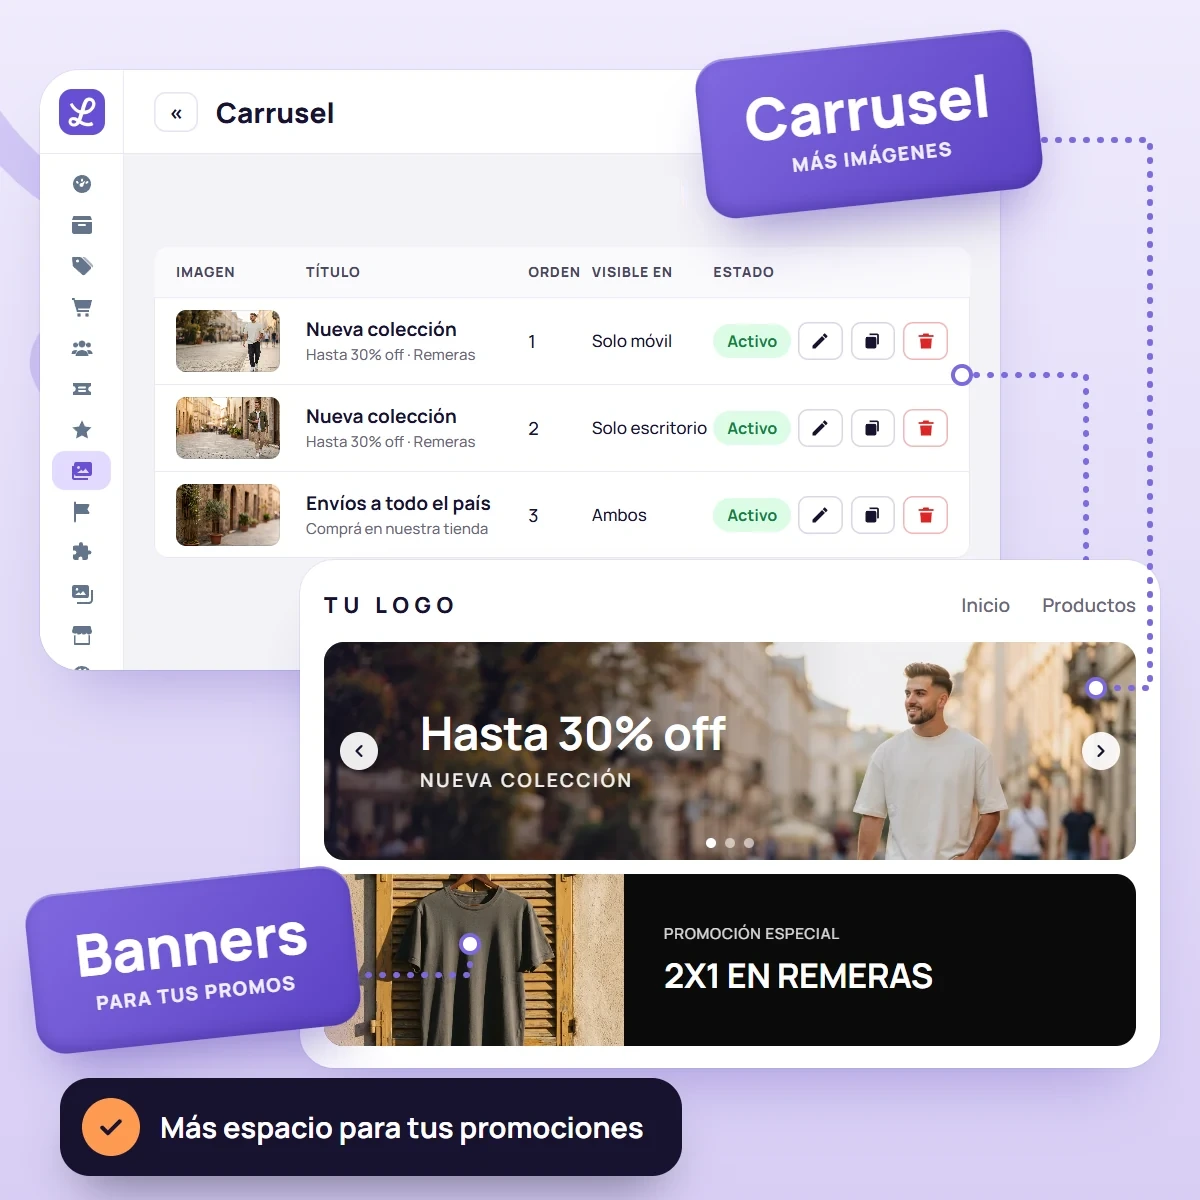
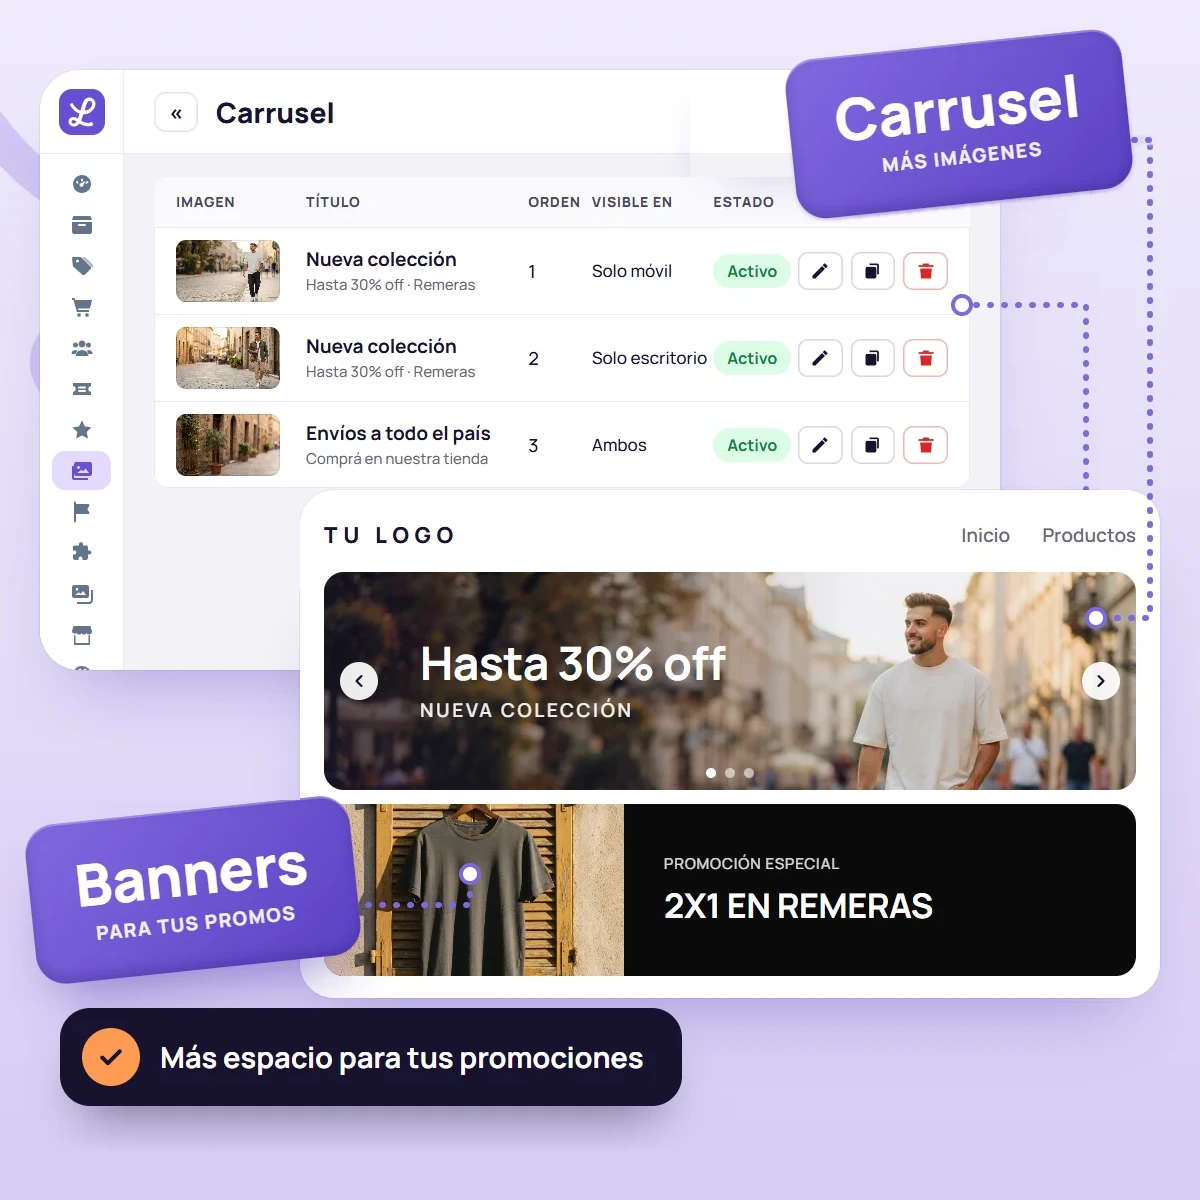
Basico: sin hueco en la imagen del carrusel, scroll de cada tarjeta arranca desde arriba al entrar, bloque Cuando crezcas y escena de Ads sin cartel violeta

diff --git a/src/basico/BasicoEjemplosNuevo.jsx b/src/basico/BasicoEjemplosNuevo.jsx
@@ -44,14 +44,30 @@ const Candado = () => (
 
 function Tarjeta({ t }) {
   const dominio = new URL(t.href).hostname
+  // Cada tarjeta arranca su scroll desde arriba cuando entra en pantalla (y se reinicia si sale): así nunca se ve una tarjeta
+  // "empezada a la mitad". Las tarjetas que se ven juntas (escritorio) arrancan a la vez; el escritorio y el celular de una
+  // misma tarjeta también, porque comparten el mismo inicio y la misma duración.
+  const enlace = useRef(null)
+  const [viva, setViva] = useState(false)
+  useEffect(() => {
+    const el = enlace.current
+    if (!el || !("IntersectionObserver" in window)) {
+      setViva(true)
+      return undefined
+    }
+    const io = new IntersectionObserver(([e]) => setViva(e.isIntersecting), { threshold: 0.35 })
+    io.observe(el)
+    return () => io.disconnect()
+  }, [])
   return (
     <article data-reveal>
       <a
+        ref={enlace}
         href={t.href}
         target="_blank"
         rel="noopener noreferrer"
         aria-label={`Ver la tienda ${t.nombre}, ${t.rubro.toLowerCase()}`}
-        className="group relative block aspect-[100/92] w-full cursor-pointer overflow-hidden rounded-[2rem] bg-ink focus-ring [container-type:inline-size]"
+        className={`group relative block aspect-[100/92] w-full cursor-pointer overflow-hidden rounded-[2rem] bg-ink focus-ring [container-type:inline-size] ${viva ? "tarjeta-viva" : ""}`}
       >
         {/* Escritorio, con la barra del navegador y la dirección de la tienda */}
         <div className="absolute left-[9.5%] top-[19.5cqw] aspect-[16/10] w-[81%] overflow-hidden rounded-2xl bg-white ring-1 ring-white/20 [container-type:inline-size]">
@@ -150,20 +166,6 @@ export default function BasicoEjemplosNuevo() {
   const root = useRef(null)
   useReveal(root)
 
-  // Las pantallas solo se deslizan mientras la grilla está a la vista, y arrancan las seis a la vez (misma fase).
-  const grilla = useRef(null)
-  const [viva, setViva] = useState(false)
-  useEffect(() => {
-    const el = grilla.current
-    if (!el || !("IntersectionObserver" in window)) {
-      setViva(true)
-      return undefined
-    }
-    const io = new IntersectionObserver(([e]) => setViva(e.isIntersecting), { threshold: 0.1 })
-    io.observe(el)
-    return () => io.disconnect()
-  }, [])
-
   return (
     <section id="ejemplos-nuevo" ref={root} className="bg-primary-tint py-16">
       <div className="mx-auto max-w-6xl px-4 md:px-6">
@@ -185,7 +187,7 @@ export default function BasicoEjemplosNuevo() {
           </p>
         </div>
 
-        <div ref={grilla} className={`mt-10 grid gap-5 md:grid-cols-3 ${viva ? "ejemplos-vivos" : ""}`}>
+        <div className="mt-10 grid gap-5 md:grid-cols-3">
           {tiendas.map((t) => (
             <Tarjeta key={t.nombre} t={t} />
           ))}

diff --git a/src/components/escenas/CarruselAnimado.jsx b/src/components/escenas/CarruselAnimado.jsx
@@ -23,7 +23,7 @@ function Flecha({ lado, giro, clase = "" }) {
   return (
     <span
       className={`absolute flex items-center justify-center rounded-full bg-white/90 ${clase}`}
-      style={{ [lado]: "1.333cqw", top: "50%", width: "3.167cqw", height: "3.167cqw", marginTop: "-1.583cqw" }}
+      style={{ [lado]: "1.333cqw", top: "47.6667%", width: "3.167cqw", height: "3.167cqw", marginTop: "-1.583cqw" }}
     >
       <svg
         viewBox="0 0 24 24"
@@ -47,7 +47,7 @@ export default function CarruselAnimado({ activa = false }) {
     <div aria-hidden="true" className={`absolute inset-0 ${activa ? "carru-activa" : ""}`}>
       <div
         className="absolute overflow-hidden bg-[#E2D9FF]"
-        style={{ left: "27%", top: "53.5%", width: "67.667%", height: "18.167%", borderRadius: "1.667cqw" }}
+        style={{ left: "27%", top: "47.6667%", width: "67.667%", height: "18.167%", borderRadius: "1.667cqw" }}
       >
         <div className="carru-pista flex h-full" style={{ width: "400%" }}>
           {pista.map((l, i) => (
@@ -87,8 +87,8 @@ export default function CarruselAnimado({ activa = false }) {
       </div>
       {/* La línea de puntos del sticker «Carrusel» termina sobre la tira: se redibuja encima para que no quede tapada. */}
       <svg className="absolute inset-0 h-full w-full" viewBox="0 0 1200 1200" fill="none">
-        <path d="M1030 140 H1150 V688 H1096" stroke="#7C6AE0" strokeWidth="6" strokeLinecap="round" strokeLinejoin="round" strokeDasharray="1 13" />
-        <circle cx="1096" cy="688" r="9" fill="#fff" stroke="#7C6AE0" strokeWidth="4" />
+        <path d="M1142 140 H1150 V618 H1096" stroke="#7C6AE0" strokeWidth="6" strokeLinecap="round" strokeLinejoin="round" strokeDasharray="1 13" />
+        <circle cx="1096" cy="618" r="9" fill="#fff" stroke="#7C6AE0" strokeWidth="4" />
       </svg>
     </div>
   )

diff --git a/src/components/escenas/EscenaAds.jsx b/src/components/escenas/EscenaAds.jsx
@@ -2,7 +2,7 @@ import banner from "../../assets/escenas/carrusel-lentes-2.webp"
 import lente1 from "../../assets/escenas/respaldo-lente-1.webp"
 import lente2 from "../../assets/escenas/respaldo-lente-2.webp"
 import lente3 from "../../assets/escenas/respaldo-lente-3.webp"
-import { abs, AvisoOscuro, IconoCarrito, Pegatina, raiz, u } from "./utiles"
+import { abs, AvisoOscuro, IconoCarrito, raiz, u } from "./utiles"
 
 // Escena "Lemora Ads": la franja promocional que corre arriba de la tienda. En el plan Básico lleva el aviso de Lemora; con Premium
 // se reemplaza por los mensajes y el color de la tienda (el ejemplo es el de una tienda Premium real: "Precios mayoristas · Envíos a
@@ -92,10 +92,6 @@ export default function EscenaAds({ activa = false }) {
         Plan Premium
       </span>
 
-      <Pegatina className="ca-sticker" xd={738} y={30} giro={6}>
-        <span style={{ fontSize: u(36), fontWeight: 800, lineHeight: 1.1 }}>Lemora Ads</span>
-        <span style={{ fontSize: u(14), fontWeight: 500, letterSpacing: "0.06em", opacity: 0.85, marginTop: u(4) }}>BARRA PROMOCIONAL</span>
-      </Pegatina>
       <AvisoOscuro className="ca-aviso" x={40} y={620} h={66} texto="Con Premium la personalizás" />
     </div>
   )

diff --git a/src/basico/BasicoIncluye.jsx b/src/basico/BasicoIncluye.jsx
@@ -108,12 +108,12 @@ const bloques = [
   },
   {
     n: 9,
-    etiqueta: "Lo que tiene el Básico",
-    title: "Una franja de Lemora corre en tu tienda.",
-    body: "El plan Básico incluye un anuncio de Lemora. Podés quitarlo con el plan Premium e incluso personalizarlo con tu propio contenido para tu tienda.",
+    etiqueta: "Cuando crezcas",
+    title: "Tu barra de promos, con tus propios mensajes en Premium.",
+    body: "En Básico la barra de arriba muestra un aviso de Lemora. Cuando quieras que sea toda tuya, con envíos, ofertas y tus propias frases, pasás a Premium.",
     incluye: ["Lemora Ads en la barra promocional"],
-    sugerencia: "La barra promocional con el aviso de Lemora",
-    alt: "Franja con el aviso de Lemora corriendo arriba de una tienda",
+    sugerencia: "La barra promocional con el aviso de Lemora y con mensajes propios",
+    alt: "Barra promocional de una tienda: el aviso de Lemora en el plan Básico y los mensajes propios con Premium",
   },
 ]
 

diff --git a/src/index.css b/src/index.css
@@ -112,8 +112,8 @@ body {
   }
 }
 @media (prefers-reduced-motion: no-preference) {
-  /* Solo corre con la grilla a la vista (.ejemplos-vivos) y se frena al pasar el mouse o al mantener apretado. */
-  .ejemplos-vivos .scroll-suave {
+  /* Solo corre con la tarjeta a la vista (.tarjeta-viva) y se frena al pasar el mouse o al mantener apretado. */
+  .tarjeta-viva .scroll-suave {
     animation: scroll-suave var(--dur, 30s) ease-in-out infinite alternate;
     will-change: transform;
   }
